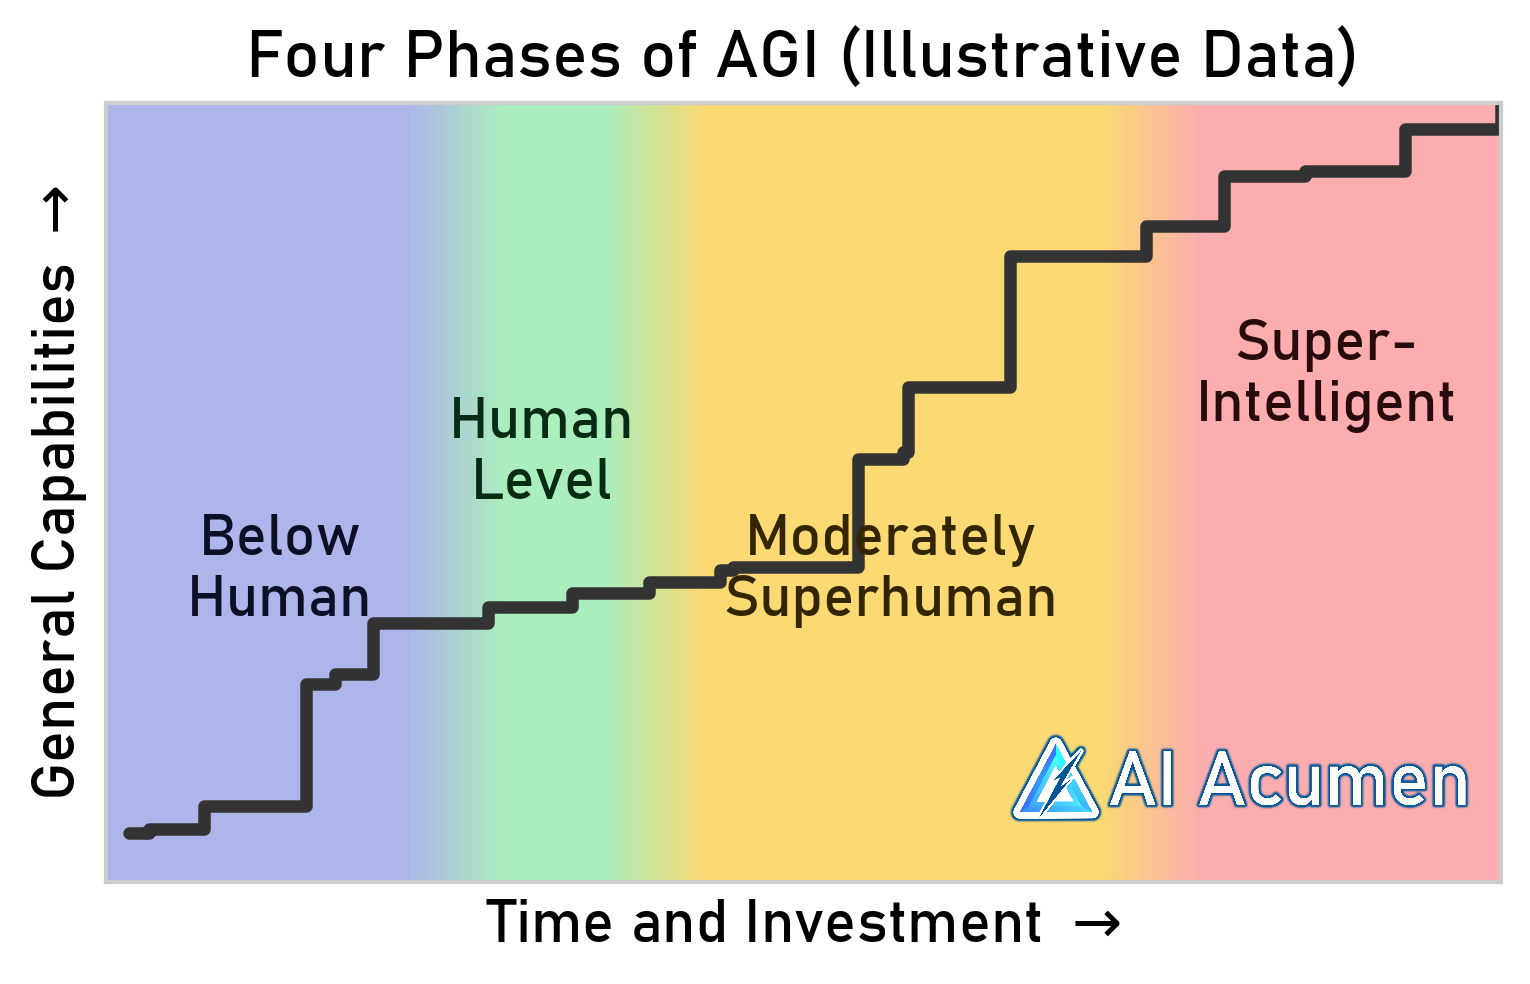
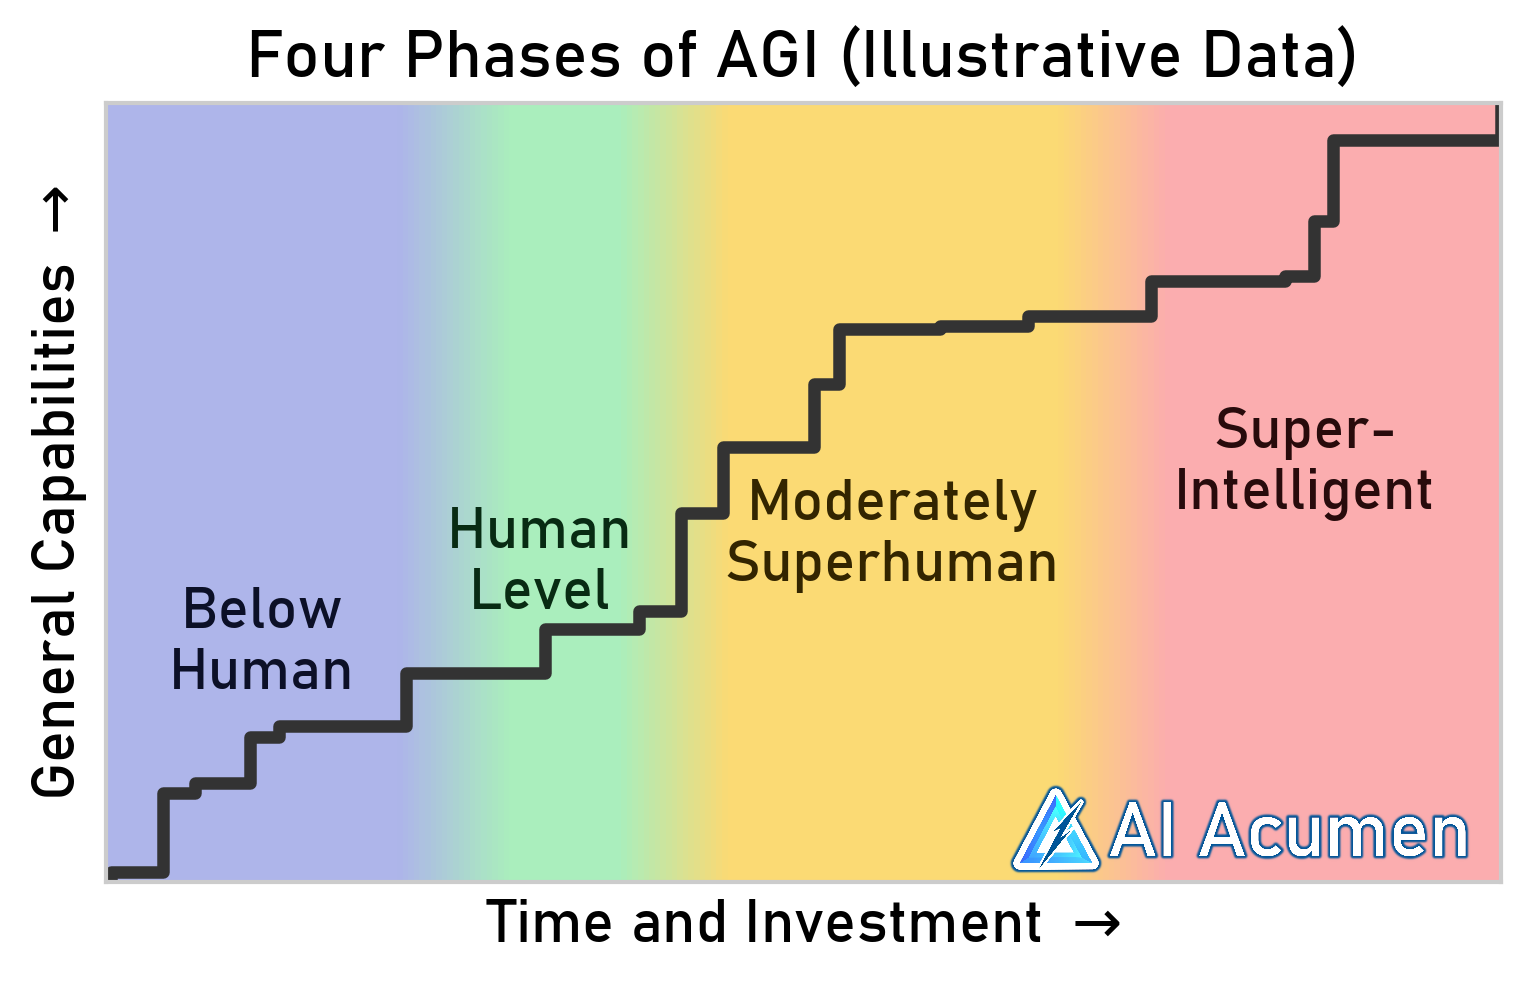
Tweak plot and positioning

Changed region(s): [[0.0614, 0.122, 0.983, 0.9146], [0.6451, 0.7317, 0.983, 0.8841]]

diff --git a/Graphs/four_phases_of_agi.py b/Graphs/four_phases_of_agi.py
@@ -32,21 +32,23 @@ def main() -> None:
     phase_colors = ["#AEB5EA", "#AAEEBD", "#FBDA74", "#FBADAF"]
     # https://coolors.co/0c1027-082b13-332500-280b0c
     text_colors = ["#0C1027", "#082B13", "#332500", "#280B0C"]
-    phase_widths = [2, 1, 3, 2]
+    phase_widths = [2.25, 1.25, 2.5, 2.25]
+    phase_label_heights = [0.325, 0.425, 0.46, 0.55]
+    phase_label_x_offsets = [0, -0.15, 0, 0]
     solid_fraction = 0.75  # Fraction of each band that should be solid color
 
     plt.figure(figsize=chart_utils.FIGSIZE_DEFAULT)
 
     # Generate capabilities progress line
-    np.random.seed(66)
+    np.random.seed(65)
     n_steps = 20
-    x = np.linspace(0, sum(phase_widths), n_steps)
+    # x = np.linspace(0, sum(phase_widths), n_steps)
     # Make x randomly spaced too
-    # x = np.cumsum(np.random.rand(n_steps))
-    # x = x / max(x) * sum(phase_widths)
-    y = np.cumsum(np.random.rand(n_steps) * 0.2)
-    # y is random increases at each
+    x = np.cumsum(np.random.rand(n_steps))
+    x = x / max(x) * sum(phase_widths)
     # y = np.cumsum(np.random.rand(n_steps) * 0.2)
+    # y is random increases at each
+    y = np.cumsum(np.random.rand(n_steps) * 0.2)
 
     # Create a modified colormap for gradient and solid bands
     total_width = sum(phase_widths)
@@ -71,15 +73,10 @@ def main() -> None:
     # Draw labels over the bands
     start = 0
     for i, (width, phase) in enumerate(zip(phase_widths, phase_names)):
-        ypos = max(y) * 0.4
-        if i == 1:
-            ypos = max(y) * 0.55
-        elif i == 2:
-            ypos = max(y) * 0.4
-        elif i == 3:
-            ypos = max(y) * 0.65
+        xpos = start + width / 2 + phase_label_x_offsets[i]
+        ypos = max(y) * phase_label_heights[i]
         plt.text(
-            start + width / 2,
+            xpos,
             ypos,
             phase,
             ha="center",
@@ -99,23 +96,10 @@ def main() -> None:
     plt.title("Four Phases of AGI (Illustrative Data)")
     plt.xlabel(r"Time and Investment $\rightarrow$")
     plt.ylabel(r"General Capabilities $\rightarrow$")
-    plt.xlim([0, max(x)])
-    plt.ylim([0, max(y)])
+    plt.xlim([min(x), max(x)])
+    plt.ylim([min(y), max(y)])
     plt.xticks([])
     plt.yticks([])
-
-    # # Overlay logo
-    # img_path = "./Resources/ai_acumen_wide.png"
-    # image = plt.imread(img_path)
-    # image_ar = image.shape[1] / image.shape[0]
-    # axes_ar = max(x) / max(y)
-    # fig_ar = chart_utils.FIGSIZE_DEFAULT[0] / chart_utils.FIGSIZE_DEFAULT[1]
-    # width = 2.25
-    # height = width / image_ar / axes_ar * fig_ar
-    # right, bottom = max(x) - 0.05, 0.04
-    # left, top = right - width, bottom + height
-    # plt.imshow(image, aspect="auto", extent=[left, right, bottom, top], zorder=10)
-    # # plt.imshow(image, aspect="auto", extent=None, zorder=10)
 
     # Load the image
     img_path = "./Resources/ai_acumen_wide.png"
